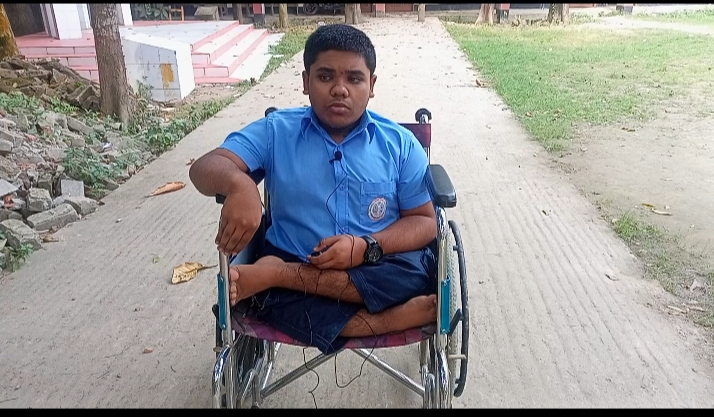
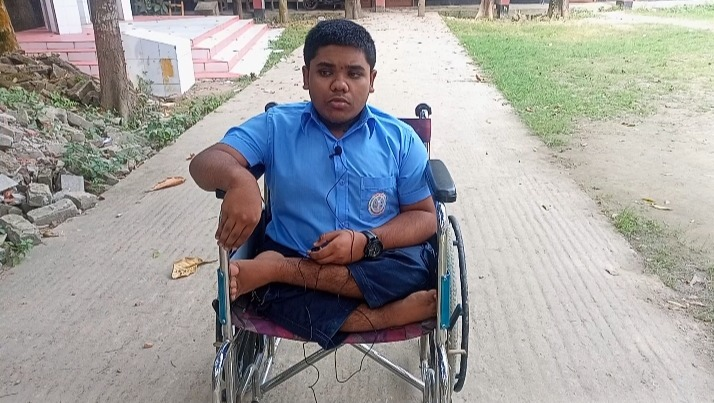
Add blog details pages and restyle About and Membership
- Each blog post now has its own page, laid out like the weDevs blog post:
  title, author and date, a large photo, the article with share buttons,
  photos from the same cause, a donate box and related posts.
- Blog cards and Recent posts link to those pages; smaller headings and
  10px thumbnail corners.
- Membership Apply buttons are sized to their label instead of the card.
- About: Mission, Vision and Values sit in boxes with outline icons on
  white chips; black value bullets.
- Fix the Winter Clothing post photo and trim black bars off the
  wheelchair photo.

diff --git a/src/data/posts.ts b/src/data/posts.ts
@@ -1,0 +1,92 @@
+import { IMG } from './images';
+
+export interface Post {
+  slug: string;
+  title: string;
+  /** ISO date the post was published. */
+  date: string;
+  /** Cause slug, matching CAUSE_NAV in site.ts. */
+  cause: string;
+  img: string;
+  /** The article, one string per paragraph. */
+  body: string[];
+}
+
+// The foundation's six blog posts, newest first. The text is the foundation's own,
+// taken from its original blog (16 October 2024) with the name changed to Ummah Care.
+export const POSTS: Post[] = [
+  {
+    slug: 'medical-assistance-for-over-50-patients',
+    title: 'Medical Assistance for Over 50 Patients: Expanding Support to 200 by 2027',
+    date: '2024-10-16',
+    cause: 'medical-care',
+    img: IMG.wheelchair,
+    body: [
+      'Over the past three years, Ummah Care Foundation has provided financial assistance ranging from 5,000 to 100,000 BDT to more than 50 underprivileged and ailing individuals across different districts in Bangladesh. The foundation aims to extend this support to 200 patients by 2027.'
+    ]
+  },
+  {
+    slug: 'supporting-education-for-over-200-meritorious-students',
+    title: 'Supporting Education for Over 200 Meritorious Students: A Vision for 1,000 by 2027',
+    date: '2024-10-16',
+    cause: 'educational-aid',
+    img: IMG.students,
+    body: [
+      'Over the past three years, Ummah Care Foundation has provided monthly financial assistance to more than 200 underprivileged but talented students across various schools, colleges, and universities in Bangladesh.',
+      'Looking ahead, the foundation aims to extend this support to 1,000 deserving students within the next three years, empowering them to pursue higher education and build a brighter future.'
+    ]
+  },
+  {
+    slug: 'basic-food-assistance-program-2024',
+    title: 'Basic Food Assistance Program 2024: Supporting Over 200 Families in Naogaon and Pabna',
+    date: '2024-10-16',
+    cause: 'food-assistance',
+    img: IMG.foodDistribution,
+    body: [
+      'In early 2024, Ummah Care Foundation distributed essential food items to more than 200 families in Naogaon and Pabna under its Basic Food Assistance Program.',
+      'To date, the foundation has provided crucial food support to approximately 900 families, offering consistent aid to those in need throughout the year.'
+    ]
+  },
+  {
+    slug: 'van-goat-and-sewing-machine-distribution-2023',
+    title: 'Empowering Families & Individuals in Naogaon and Pabna: Van, Goat and Sewing Machine Distribution 2023',
+    date: '2024-10-16',
+    cause: 'self-reliance',
+    img: IMG.sewing,
+    body: [
+      'In 2023, Ummah Care Foundation distributed vans, goats and sewing machines to more than 100 families & individuals in the Naogaon and Pabna districts as part of the self-reliance project.',
+      'This initiative aimed to empower underprivileged families & individuals by providing them with the tools to generate sustainable income and improve their livelihoods.'
+    ]
+  },
+  {
+    slug: 'winter-clothing-distribution-2023',
+    title: 'Winter Clothing Distribution 2023 in Naogaon and Pabna: Supporting Over 500 Families',
+    date: '2024-10-16',
+    cause: 'winter-clothes',
+    img: IMG.winterClothing,
+    body: [
+      'In 2023, Ummah Care Foundation distributed winter clothes to more than 500 families in the Naogaon and Pabna districts.',
+      'This initiative aimed to provide warmth and protection to underprivileged families during the cold season, ensuring they are better prepared to face the winter with dignity and care.'
+    ]
+  },
+  {
+    slug: 'flood-relief-for-over-600-families',
+    title: 'Flood Relief: Reaching Over 600 Affected Families with Emergency Aid',
+    date: '2024-10-16',
+    cause: 'emergency-assistance',
+    img: IMG.community,
+    body: [
+      'This year, Ummah Care Foundation provided essential flood relief to more than 600 families severely impacted by devastating floods.',
+      'Our team delivered emergency food supplies, clean water, clothing, and other necessities directly to homes in several areas of Feni, Noakhali, and Comilla, ensuring that families received timely assistance during their time of need.'
+    ]
+  }
+];
+
+export const postHref = (p: Post) => `/news-and-events/${p.slug}`;
+
+export const postDate = (p: Post) =>
+  new Date(p.date).toLocaleDateString('en-GB', { day: 'numeric', month: 'short', year: 'numeric' });
+
+/** About 200 words a minute, never less than one. */
+export const readMinutes = (p: Post) =>
+  Math.max(1, Math.round(p.body.join(' ').split(/\s+/).length / 200));
